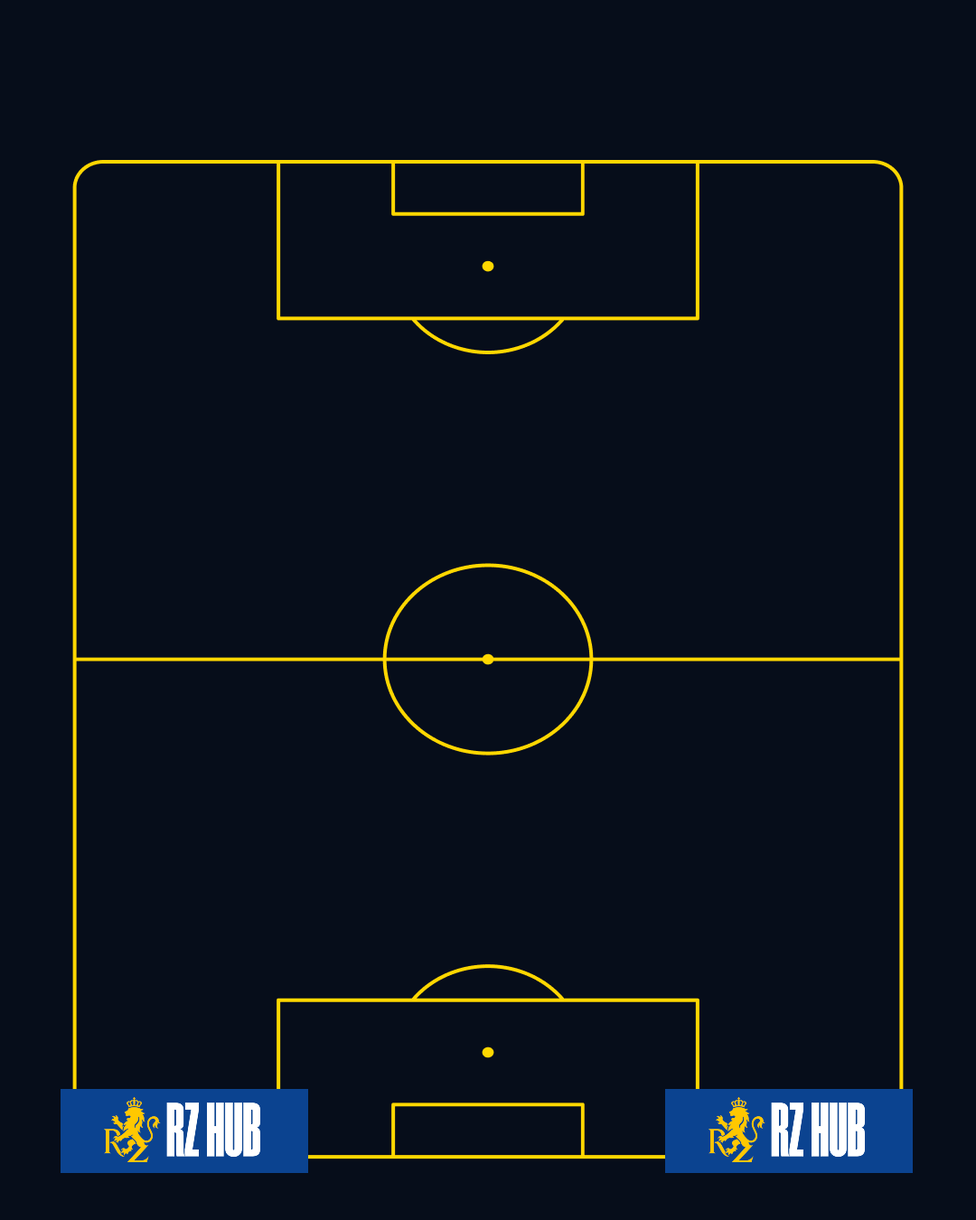
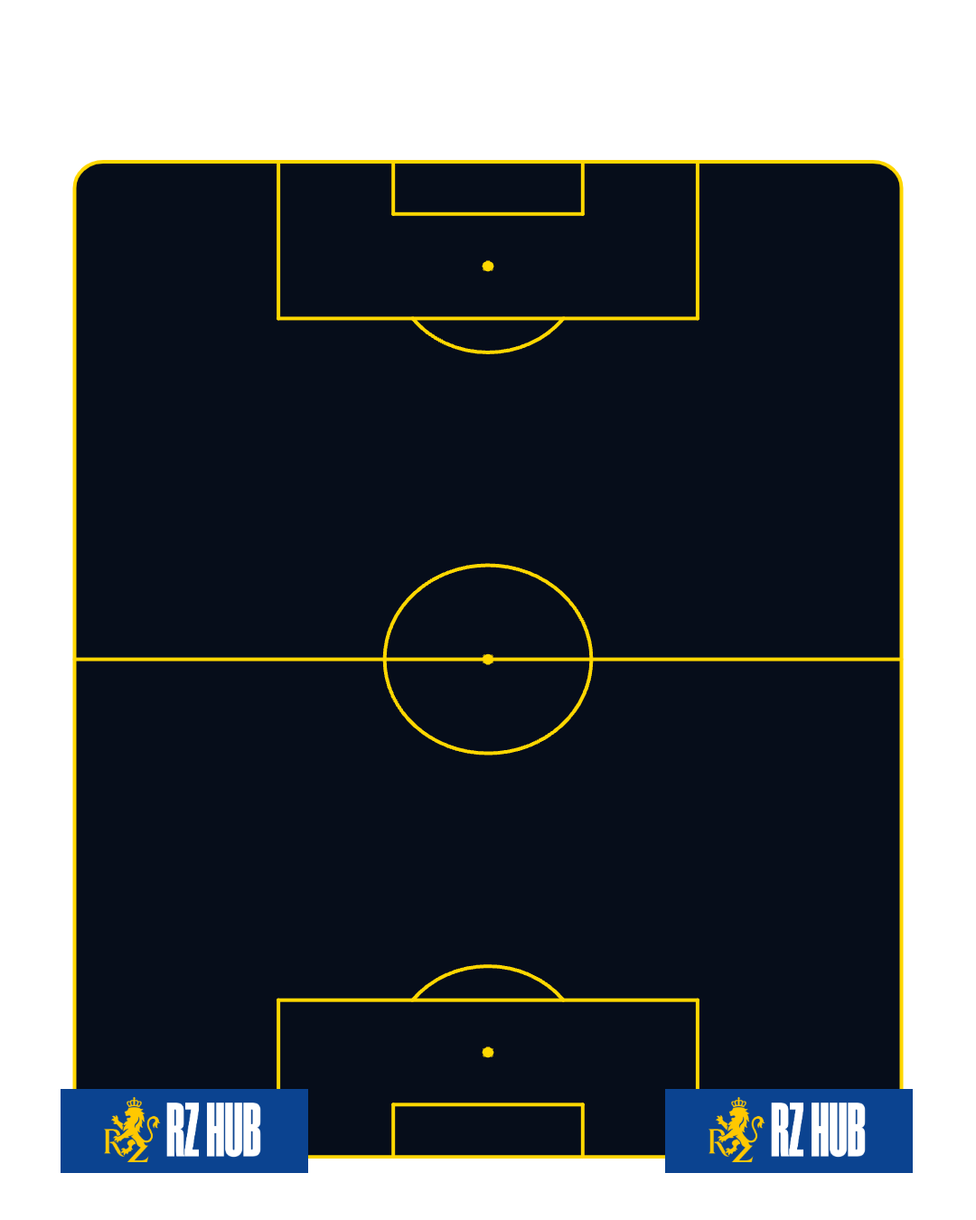
reskin lineup v1

diff --git a/src/components/SidePanel.jsx b/src/components/SidePanel.jsx
@@ -5,8 +5,10 @@ import { formationsList } from '../pages/Lineup'
 const DEFAULT_PHOTO = 'https://assets.laliga.com/squad/2025/t190/default/512x512/default_t190_2025_1_003_000.png'
 
 const card = { background: '#0F1E38', border: '1px solid rgba(255,255,255,0.07)', borderRadius: '14px' }
+// Mismo look que .tool-card de la landing (ToolsSection.css)
+const toolCard = { background: 'linear-gradient(180deg, #0f214f 0%, #0c1c46 100%)', border: '1px solid rgba(255,255,255,0.08)', borderRadius: '20px' }
 const inputStyle = { width: '100%', padding: '10px 12px', borderRadius: '10px', border: '1px solid rgba(255,255,255,0.1)', background: '#0A1628', color: '#ffffff', fontSize: '14px', fontFamily: 'Archivo, sans-serif', boxSizing: 'border-box', outline: 'none' }
-const labelStyle = { fontSize: '11px', color: 'rgba(255,255,255,0.35)', fontFamily: 'Archivo, sans-serif', fontWeight: '700', textTransform: 'uppercase', letterSpacing: '1px', display: 'block', marginBottom: '8px' }
+const labelStyle = { fontSize: '11px', color: '#ffffff', fontFamily: 'Archivo, sans-serif', fontWeight: '700', textTransform: 'uppercase', letterSpacing: '1px', display: 'block', marginBottom: '8px' }
 
 export default function SidePanel({ formation, setFormation, teamName, setTeamName, slots, setSlots, setSubs, players, fichajes, setFichajes, ventas, setVentas }) {
   const [activeTab, setActiveTab] = useState('ajustes')
@@ -73,18 +75,21 @@ export default function SidePanel({ formation, setFormation, teamName, setTeamNa
   return (
     <div style={{ flex: 1, minWidth: '280px', width: '100%' }}>
 
-      {/* Tabs */}
-      <div style={{ display: 'flex', borderBottom: '1px solid rgba(255,255,255,0.07)', marginBottom: '20px' }}>
-        {['ajustes', 'mercado', 'salarios'].map(tab => (
+      {/* Tabs — mismo estilo píldora que .market-filters de Mercado */}
+      <div style={{ display: 'flex', gap: '6px', background: 'rgba(4,20,50,0.72)', border: '1px solid rgba(255,255,255,0.08)', borderRadius: '999px', padding: '6px', marginBottom: '20px' }}>
+        {['ajustes', 'mercado'].map(tab => (
           <button key={tab} onClick={() => setActiveTab(tab)} style={{
-            flex: 1, padding: '12px 8px', border: 'none', background: 'transparent',
-            color: activeTab === tab ? '#FFC800' : 'rgba(255,255,255,0.35)',
-            fontWeight: activeTab === tab ? '700' : '400',
-            fontSize: '12px', cursor: 'pointer',
-            borderBottom: activeTab === tab ? '2px solid #FFC800' : '2px solid transparent',
+            flex: 1, minHeight: '44px', padding: '0 12px', border: 'none', borderRadius: '999px',
+            background: activeTab === tab ? 'linear-gradient(90deg, #ffc800, #ffd740)' : 'transparent',
+            color: activeTab === tab ? '#111111' : 'rgba(255,255,255,0.7)',
+            fontWeight: '600', fontSize: '13px', cursor: 'pointer',
+            boxShadow: activeTab === tab ? '0 8px 22px rgba(255,200,0,0.28)' : 'none',
             fontFamily: 'Archivo, sans-serif', textTransform: 'uppercase', letterSpacing: '1px',
-            transition: 'all 0.15s',
-          }}>
+            transition: 'background 200ms ease, color 200ms ease, box-shadow 200ms ease',
+          }}
+            onMouseEnter={e => { if (activeTab !== tab) e.currentTarget.style.color = '#ffffff' }}
+            onMouseLeave={e => { if (activeTab !== tab) e.currentTarget.style.color = 'rgba(255,255,255,0.7)' }}
+          >
             {tab}
           </button>
         ))}
@@ -93,29 +98,29 @@ export default function SidePanel({ formation, setFormation, teamName, setTeamNa
       {/* AJUSTES */}
       {activeTab === 'ajustes' && (
         <div style={{ display: 'flex', flexDirection: 'column', gap: '12px' }}>
-          <div style={{ ...card, padding: '16px' }}>
+          <div style={{ ...toolCard, padding: '16px' }}>
             <label style={labelStyle}>Nombre del equipo</label>
             <input value={teamName} onChange={e => setTeamName(e.target.value)} style={inputStyle} />
           </div>
-          <div style={{ ...card, padding: '16px' }}>
+          <div style={{ ...toolCard, padding: '16px' }}>
             <label style={labelStyle}>Formación</label>
             <select value={formation} onChange={e => setFormation(e.target.value)} style={{ ...inputStyle, cursor: 'pointer' }}>
               {formationsList.map(f => <option key={f} value={f} style={{ background: '#0A1628' }}>{f}</option>)}
             </select>
           </div>
           <button onClick={() => { setSlots({}); setSubs({}) }}
-            style={{ width: '100%', padding: '10px', borderRadius: '10px', border: '1px solid rgba(255,255,255,0.07)', background: 'transparent', color: 'rgba(255,255,255,0.35)', fontSize: '13px', cursor: 'pointer', fontFamily: 'Archivo, sans-serif', transition: 'all 0.15s' }}
-            onMouseEnter={e => { e.currentTarget.style.borderColor = 'rgba(255,255,255,0.15)'; e.currentTarget.style.color = 'rgba(255,255,255,0.6)' }}
-            onMouseLeave={e => { e.currentTarget.style.borderColor = 'rgba(255,255,255,0.07)'; e.currentTarget.style.color = 'rgba(255,255,255,0.35)' }}
+            style={{ width: '100%', padding: '9px 18px', borderRadius: '8px', border: '1px solid rgba(239,68,68,0.4)', background: 'rgba(239,68,68,0.08)', color: '#ef4444', fontWeight: '700', fontSize: '13px', cursor: 'pointer', fontFamily: 'Archivo, sans-serif', transition: 'all 0.15s' }}
+            onMouseEnter={e => { e.currentTarget.style.background = 'rgba(239,68,68,0.15)' }}
+            onMouseLeave={e => { e.currentTarget.style.background = 'rgba(239,68,68,0.08)' }}
           >
             🗑 Limpiar campo
           </button>
 
           {/* Panel peticiones */}
-          <div style={{ ...card, padding: '16px', marginTop: '4px' }}>
+          <div style={{ ...toolCard, padding: '16px', marginTop: '4px' }}>
             <div style={{ display: 'flex', alignItems: 'center', gap: '8px', marginBottom: '12px' }}>
               <span style={{ fontSize: '14px' }}>✉</span>
-              <span style={{ fontFamily: 'Archivo, sans-serif', fontWeight: '600', fontSize: '12px', color: 'rgba(255,255,255,0.6)', textTransform: 'uppercase', letterSpacing: '1px' }}>Solicita jugadores que faltan</span>
+              <span style={{ fontFamily: 'Archivo, sans-serif', fontWeight: '600', fontSize: '12px', color: '#ffffff', textTransform: 'uppercase', letterSpacing: '1px' }}>Solicita jugadores que faltan</span>
             </div>
             <textarea
               value={peticion}
@@ -145,13 +150,13 @@ export default function SidePanel({ formation, setFormation, teamName, setTeamNa
         <div style={{ display: 'flex', flexDirection: 'column', gap: '12px' }}>
           <div style={{ display: 'grid', gridTemplateColumns: '1fr 1fr 1fr', gap: '1px', background: 'rgba(255,255,255,0.07)', borderRadius: '14px', overflow: 'hidden' }}>
             {[
-              { label: 'BALANCE', value: balance, color: balance >= 0 ? '#22C55E' : '#EF4444' },
-              { label: 'SALIDAS', value: totalVentas, color: '#22C55E' },
+              { label: 'BALANCE', value: balance, color: balance >= 0 ? '#27ae60' : '#EF4444' },
+              { label: 'SALIDAS', value: totalVentas, color: '#27ae60' },
               { label: 'FICHAJES', value: totalFichajes, color: '#EF4444' },
             ].map(stat => (
               <div key={stat.label} style={{ background: '#0F1E38', padding: '14px 8px', textAlign: 'center' }}>
-                <div style={{ fontSize: '22px', fontWeight: '900', color: stat.color, fontFamily: 'Humane, sans-serif', lineHeight: 1 }}>
-                  {balance < 0 && stat.label === 'BALANCE' ? '-' : ''}{Math.abs(stat.value)}<span style={{ fontSize: '13px' }}>M€</span>
+                <div style={{ fontSize: '20px', fontWeight: '800', color: stat.color, fontFamily: 'Archivo, sans-serif', lineHeight: 1 }}>
+                  {balance < 0 && stat.label === 'BALANCE' ? '-' : ''}{Math.abs(stat.value)}<span style={{ fontSize: '12px', fontWeight: '700' }}>M€</span>
                 </div>
                 <div style={{ fontSize: '10px', fontWeight: '700', color: 'rgba(255,255,255,0.35)', fontFamily: 'Archivo, sans-serif', marginTop: '4px', letterSpacing: '1px' }}>{stat.label}</div>
               </div>
@@ -160,8 +165,8 @@ export default function SidePanel({ formation, setFormation, teamName, setTeamNa
 
           {/* Ventas */}
           <div style={{ ...card, overflow: 'hidden' }}>
-            <div style={{ background: '#22C55E', padding: '10px 14px', display: 'flex', alignItems: 'center', justifyContent: 'space-between' }}>
-              <span style={{ color: 'white', fontFamily: 'Humane, sans-serif', fontSize: '18px', letterSpacing: '1px' }}>VENTAS</span>
+            <div style={{ background: '#27ae60', padding: '10px 14px', display: 'flex', alignItems: 'center', justifyContent: 'space-between' }}>
+              <span style={{ color: 'white', fontFamily: 'Archivo, sans-serif', fontWeight: '700', fontSize: '14px', letterSpacing: '0.5px' }}>VENTAS</span>
               <button onClick={() => { setShowModalVenta(true); setSearch('') }} style={{ background: 'rgba(255,255,255,0.2)', border: 'none', color: 'white', borderRadius: '50%', width: '24px', height: '24px', cursor: 'pointer', fontSize: '16px', display: 'flex', alignItems: 'center', justifyContent: 'center' }}>+</button>
             </div>
             <div style={{ padding: '6px', minHeight: '50px' }}>
@@ -175,7 +180,7 @@ export default function SidePanel({ formation, setFormation, teamName, setTeamNa
                   {editingValor === p.id ? (
                     <input autoFocus type="number" defaultValue={p.valor} onBlur={e => { setVentas(prev => prev.map(v => v.id === p.id ? { ...v, valor: parseFloat(e.target.value) || 0 } : v)); setEditingValor(null) }} style={{ width: '60px', padding: '3px', border: '1px solid rgba(255,255,255,0.15)', borderRadius: '4px', fontSize: '12px', background: '#0A1628', color: '#fff', outline: 'none' }} />
                   ) : (
-                    <span onClick={() => setEditingValor(p.id)} style={{ fontFamily: 'Archivo, sans-serif', fontWeight: '700', fontSize: '12px', color: '#22C55E', cursor: 'pointer' }}>+{p.valor}M€</span>
+                    <span onClick={() => setEditingValor(p.id)} style={{ fontFamily: 'Archivo, sans-serif', fontWeight: '700', fontSize: '12px', color: '#27ae60', cursor: 'pointer' }}>+{p.valor}M€</span>
                   )}
                   <button onClick={() => setVentas(prev => prev.filter(v => v.id !== p.id))} style={{ background: 'none', border: 'none', cursor: 'pointer', color: 'rgba(255,255,255,0.25)', fontSize: '14px' }}>✕</button>
                 </div>
@@ -186,7 +191,7 @@ export default function SidePanel({ formation, setFormation, teamName, setTeamNa
           {/* Fichajes */}
           <div style={{ ...card, overflow: 'hidden' }}>
             <div style={{ background: '#0D4491', padding: '10px 14px', display: 'flex', alignItems: 'center', justifyContent: 'space-between' }}>
-              <span style={{ color: 'white', fontFamily: 'Humane, sans-serif', fontSize: '18px', letterSpacing: '1px' }}>FICHAJES</span>
+              <span style={{ color: 'white', fontFamily: 'Archivo, sans-serif', fontWeight: '700', fontSize: '14px', letterSpacing: '0.5px' }}>FICHAJES</span>
               <button onClick={() => { setShowModalFichaje(true); setSearch('') }} style={{ background: 'rgba(255,255,255,0.2)', border: 'none', color: 'white', borderRadius: '50%', width: '24px', height: '24px', cursor: 'pointer', fontSize: '16px', display: 'flex', alignItems: 'center', justifyContent: 'center' }}>+</button>
             </div>
             <div style={{ padding: '6px', minHeight: '50px' }}>
@@ -210,19 +215,11 @@ export default function SidePanel({ formation, setFormation, teamName, setTeamNa
         </div>
       )}
 
-      {/* SALARIOS */}
-      {activeTab === 'salarios' && (
-        <div style={{ ...card, padding: '40px 24px', textAlign: 'center' }}>
-          <p style={{ fontSize: '36px', margin: 0 }}>💶</p>
-          <p style={{ fontFamily: 'Archivo, sans-serif', fontSize: '14px', marginTop: '12px', color: 'rgba(255,255,255,0.3)' }}>Sección de salarios — próximamente</p>
-        </div>
-      )}
-
       {/* Modal Venta */}
       {showModalVenta && (
         <div onClick={() => { setShowModalVenta(false); setSelectedPlayer(null) }} style={{ position: 'fixed', top: 0, left: 0, right: 0, bottom: 0, background: 'rgba(0,0,0,0.8)', zIndex: 1000, display: 'flex', alignItems: 'center', justifyContent: 'center' }}>
           <div onClick={e => e.stopPropagation()} style={{ background: '#0A1628', border: '1px solid rgba(255,255,255,0.1)', borderRadius: '14px', width: '90%', maxWidth: '400px', maxHeight: '580px', display: 'flex', flexDirection: 'column', overflow: 'hidden', boxShadow: '0 20px 60px rgba(0,0,0,0.7)' }}>
-            <div style={{ background: '#22C55E', padding: '16px 20px', display: 'flex', alignItems: 'center', justifyContent: 'space-between' }}>
+            <div style={{ background: '#27ae60', padding: '16px 20px', display: 'flex', alignItems: 'center', justifyContent: 'space-between' }}>
               <span style={{ color: 'white', fontWeight: '700', fontSize: '16px', fontFamily: 'Archivo, sans-serif' }}>Añadir venta</span>
               <button onClick={() => { setShowModalVenta(false); setSelectedPlayer(null) }} style={{ background: 'none', border: 'none', color: 'white', fontSize: '20px', cursor: 'pointer' }}>✕</button>
             </div>
@@ -236,13 +233,13 @@ export default function SidePanel({ formation, setFormation, teamName, setTeamNa
                 </div>
                 <span style={{ flex: 1, fontFamily: 'Archivo, sans-serif', fontWeight: '600', color: '#fff' }}>{selectedPlayer.name}</span>
                 <input type="number" placeholder="M€" value={valor} onChange={e => setValor(e.target.value)} style={{ width: '80px', padding: '8px', borderRadius: '6px', border: '1px solid rgba(255,255,255,0.1)', fontSize: '14px', fontFamily: 'Archivo, sans-serif', background: '#152445', color: '#fff', outline: 'none' }} />
-                <button onClick={addVenta} style={{ background: '#22C55E', color: 'white', border: 'none', borderRadius: '6px', padding: '8px 14px', cursor: 'pointer', fontFamily: 'Archivo, sans-serif', fontWeight: '700' }}>Añadir</button>
+                <button onClick={addVenta} style={{ background: '#27ae60', color: 'white', border: 'none', borderRadius: '6px', padding: '8px 14px', cursor: 'pointer', fontFamily: 'Archivo, sans-serif', fontWeight: '700' }}>Añadir</button>
               </div>
             )}
             <div style={{ overflowY: 'auto', flex: 1, padding: '8px' }}>
               {search.length < 2 && <div style={{ textAlign: 'center', padding: '30px', color: 'rgba(255,255,255,0.25)', fontFamily: 'Archivo, sans-serif', fontSize: '13px' }}>🔍 Busca un jugador del Zaragoza</div>}
               {filteredVenta.map(p => (
-                <div key={p.id} onClick={() => setSelectedPlayer(p)} style={{ display: 'flex', alignItems: 'center', gap: '12px', padding: '10px 12px', borderRadius: '8px', cursor: 'pointer', background: selectedPlayer?.id === p.id ? 'rgba(34,197,94,0.12)' : 'transparent' }}
+                <div key={p.id} onClick={() => setSelectedPlayer(p)} style={{ display: 'flex', alignItems: 'center', gap: '12px', padding: '10px 12px', borderRadius: '8px', cursor: 'pointer', background: selectedPlayer?.id === p.id ? 'rgba(39,174,96,0.12)' : 'transparent' }}
                   onMouseEnter={e => { if (selectedPlayer?.id !== p.id) e.currentTarget.style.background = 'rgba(255,255,255,0.04)' }}
                   onMouseLeave={e => { if (selectedPlayer?.id !== p.id) e.currentTarget.style.background = 'transparent' }}
                 >

diff --git a/src/components/Field.jsx b/src/components/Field.jsx
@@ -13,6 +13,17 @@ function scaleByFieldWidth(fieldWidth, min, max, refMin = 320, refMax = 620) {
   return min + (max - min) * t
 }
 
+// Para que el input de edición del nombre ocupe solo lo que el texto
+// realmente pesa (y así la formación pueda seguir en la misma fila
+// mientras quepa, en vez de bajar siempre por tener un input a 100%).
+let measureCanvas
+function measureTextWidth(text, font) {
+  if (!measureCanvas) measureCanvas = document.createElement('canvas')
+  const ctx = measureCanvas.getContext('2d')
+  ctx.font = font
+  return ctx.measureText(text).width
+}
+
 export default function Field({ slotsLayout, slots, subs, teamName, setTeamName, formation, allPlayers, onSelectPlayer, onRemovePlayer, onSelectSub, onRemoveSub, onAddCustomPlayer, onGuardar, user }) {
   const fieldRef = useRef(null)
   const [editingName, setEditingName] = useState(false)
@@ -157,29 +168,27 @@ export default function Field({ slotsLayout, slots, subs, teamName, setTeamName,
   return (
     <div style={{ display: 'flex', flexDirection: 'column', width: '100%', maxWidth: '620px', flexShrink: 0 }}>
 
-      {/* Botones encima del campo */}
-      <div style={{ display: 'flex', flexWrap: 'wrap', justifyContent: 'flex-start', marginBottom: '12px', gap: '8px' }}>
+      {/* Botones encima del campo — los tres reparten el mismo ancho */}
+      <div style={{ display: 'flex', flexWrap: 'wrap', marginBottom: '12px', gap: '8px' }}>
         {guardado ? (
-          <div style={{ display: 'flex', alignItems: 'center', padding: '9px 18px', borderRadius: '8px', background: 'rgba(39,174,96,0.15)', color: '#27ae60', fontWeight: '700', fontSize: '13px', fontFamily: 'Archivo, sans-serif', border: '1px solid rgba(39,174,96,0.3)' }}>
+          <div style={{ flex: 1, minWidth: '0', display: 'flex', alignItems: 'center', justifyContent: 'center', padding: '9px 12px', borderRadius: '8px', background: 'rgba(39,174,96,0.15)', color: '#27ae60', fontWeight: '700', fontSize: '13px', fontFamily: 'Archivo, sans-serif', border: '1px solid rgba(39,174,96,0.3)', textAlign: 'center' }}>
             ✅ ¡Guardado en la comunidad!
           </div>
         ) : (
-          <button onClick={abrirModal} style={{ display: 'flex', alignItems: 'center', gap: '8px', padding: '9px 18px', borderRadius: '8px', border: '1px solid rgba(255,200,0,0.4)', background: 'rgba(255,200,0,0.08)', color: '#ffc800', fontWeight: '700', fontSize: '13px', fontFamily: 'Archivo, sans-serif', cursor: 'pointer', transition: 'all 0.15s' }}
+          <button onClick={abrirModal} style={{ flex: 1, minWidth: '0', display: 'flex', alignItems: 'center', justifyContent: 'center', gap: '8px', padding: '9px 12px', borderRadius: '8px', border: '1px solid rgba(255,200,0,0.4)', background: 'rgba(255,200,0,0.08)', color: '#ffc800', fontWeight: '700', fontSize: '13px', fontFamily: 'Archivo, sans-serif', cursor: 'pointer', transition: 'all 0.15s' }}
             onMouseEnter={e => e.currentTarget.style.background = 'rgba(255,200,0,0.15)'}
             onMouseLeave={e => e.currentTarget.style.background = 'rgba(255,200,0,0.08)'}
           >
-            💾 Guardar en comunidad
+            Guardar en comunidad
           </button>
         )}
-        {window.innerWidth > 640 && (
-          <button onClick={handleDownload} style={{ display: 'flex', alignItems: 'center', gap: '8px', padding: '9px 18px', borderRadius: '8px', border: '1px solid rgba(255,255,255,0.15)', background: 'rgba(255,255,255,0.05)', color: 'rgba(255,255,255,0.7)', fontWeight: '700', fontSize: '13px', fontFamily: 'Archivo, sans-serif', cursor: 'pointer', transition: 'all 0.15s' }}
-            onMouseEnter={e => e.currentTarget.style.background = 'rgba(255,255,255,0.1)'}
-            onMouseLeave={e => e.currentTarget.style.background = 'rgba(255,255,255,0.05)'}
-          >
-            ⬇ Descargar
-          </button>
-        )}
-        <button onClick={handleCompartirX} style={{ display: 'flex', alignItems: 'center', gap: '8px', padding: '9px 18px', borderRadius: '8px', border: '1px solid rgba(29,155,240,0.4)', background: 'rgba(29,155,240,0.08)', color: '#1da1f2', fontWeight: '700', fontSize: '13px', fontFamily: 'Archivo, sans-serif', cursor: 'pointer', transition: 'all 0.15s' }}
+        <button onClick={handleDownload} style={{ flex: 1, minWidth: '0', display: 'flex', alignItems: 'center', justifyContent: 'center', gap: '8px', padding: '9px 12px', borderRadius: '8px', border: '1px solid rgba(255,255,255,0.15)', background: 'rgba(255,255,255,0.05)', color: 'rgba(255,255,255,0.7)', fontWeight: '700', fontSize: '13px', fontFamily: 'Archivo, sans-serif', cursor: 'pointer', transition: 'all 0.15s' }}
+          onMouseEnter={e => e.currentTarget.style.background = 'rgba(255,255,255,0.1)'}
+          onMouseLeave={e => e.currentTarget.style.background = 'rgba(255,255,255,0.05)'}
+        >
+          ⬇ Descargar
+        </button>
+        <button onClick={handleCompartirX} style={{ flex: 1, minWidth: '0', display: 'flex', alignItems: 'center', justifyContent: 'center', gap: '8px', padding: '9px 12px', borderRadius: '8px', border: '1px solid rgba(29,155,240,0.4)', background: 'rgba(29,155,240,0.08)', color: '#1da1f2', fontWeight: '700', fontSize: '13px', fontFamily: 'Archivo, sans-serif', cursor: 'pointer', transition: 'all 0.15s' }}
           onMouseEnter={e => e.currentTarget.style.background = 'rgba(29,155,240,0.15)'}
           onMouseLeave={e => e.currentTarget.style.background = 'rgba(29,155,240,0.08)'}
         >
@@ -192,19 +201,28 @@ export default function Field({ slotsLayout, slots, subs, teamName, setTeamName,
         <img src="/CAMPO_PARA_WEB.svg" alt="campo" crossOrigin="anonymous"
           style={{ position: 'absolute', top: 0, left: 0, width: '100%', height: '100%', objectFit: 'fill' }} />
 
-        {/* Título — padding generoso para no solapar cards */}
-        <div style={{ position: 'absolute', top: 0, left: 0, right: 0, padding: '8px 16px 0px 16px', zIndex: 10 }}>
+        {/* Título — padding generoso para no solapar cards. Nombre y
+            formación van en la misma fila (flex-wrap): si el nombre del
+            equipo no deja hueco para la formación, esta baja sola a una
+            segunda línea de forma automática. */}
+        <div style={{ position: 'absolute', top: 0, left: 0, right: 0, padding: '8px 16px 0px 16px', zIndex: 10, display: 'flex', flexWrap: 'wrap', alignItems: 'center', gap: '10px' }}>
           {editingName ? (
             <input autoFocus value={teamName} onChange={e => setTeamName(e.target.value)}
               onBlur={() => setEditingName(false)} onKeyDown={e => e.key === 'Enter' && setEditingName(false)}
-              style={{ fontFamily: 'Humane, sans-serif', fontWeight: '700', fontSize: `${titleFontSize}px`, textTransform: 'uppercase', color: '#ffffff', border: 'none', borderBottom: '2px solid #ffffff', outline: 'none', background: 'transparent', width: '100%', letterSpacing: '0px', lineHeight: '0.9' }} />
+              style={{
+                fontFamily: 'Humane, sans-serif', fontWeight: '700', fontSize: `${titleFontSize}px`, textTransform: 'uppercase', color: '#ffffff', border: 'none', borderBottom: '2px solid #ffffff', outline: 'none', background: 'transparent', letterSpacing: '0px', lineHeight: '0.9',
+                // Ancho pegado al texto real (no 100%) para que la
+                // formación solo baje de línea cuando de verdad no cabe.
+                width: `${Math.max(60, Math.ceil(measureTextWidth((teamName || '').toUpperCase(), `700 ${titleFontSize}px Humane, sans-serif`)) + 16)}px`,
+                maxWidth: '100%',
+              }} />
           ) : (
             <h2 onClick={() => setEditingName(true)} title="Clic para editar"
               style={{ color: '#ffffff', fontFamily: 'Humane, sans-serif', fontWeight: '700', fontSize: `${titleFontSize}px`, textTransform: 'uppercase', margin: 0, letterSpacing: '0px', cursor: 'text', userSelect: 'none', lineHeight: '0.9' }}>
               {teamName}
             </h2>
           )}
-          <div style={{ display: 'inline-block', background: '#FFC800', color: '#060D1A', fontSize: '10px', fontWeight: '800', padding: '2px 8px', borderRadius: '4px', marginTop: '10px', fontFamily: 'Archivo, sans-serif' }}>
+          <div style={{ display: 'inline-block', background: '#FFC800', color: '#060D1A', fontSize: '10px', fontWeight: '800', padding: '2px 8px', borderRadius: '4px', fontFamily: 'Archivo, sans-serif', flexShrink: 0 }}>
             {formation}
           </div>
         </div>

diff --git a/src/pages/Lineup.jsx b/src/pages/Lineup.jsx
@@ -3,6 +3,7 @@ import SEO, { SITE_URL } from '../components/SEO'
 import { DndContext, closestCenter } from '@dnd-kit/core'
 import Field from '../components/Field'
 import SidePanel from '../components/SidePanel'
+import Footer from '../components/Footer'
 import usePlayers from '../hooks/usePlayers'
 import useAuth from '../hooks/useAuth'
 import { supabase } from '../hooks/useAuth'
@@ -183,7 +184,14 @@ export default function Lineup() {
   )
 
   return (
-    <div style={{ minHeight: 'calc(100vh - 72px)', background: '#060D1A', fontFamily: 'Archivo, sans-serif' }}>
+    <div style={{ position: 'relative', isolation: 'isolate', minHeight: 'calc(100vh - 72px)', background: '#060D1A', fontFamily: 'Archivo, sans-serif' }}>
+      {/* Misma imagen panorámica de estadio/afición que usa .editorial-section */}
+      <div style={{
+        position: 'absolute', inset: 0, zIndex: 0,
+        background: `linear-gradient(180deg, rgba(4, 18, 46, 0.94) 0%, rgba(7, 35, 88, 0.90) 35%, rgba(10, 68, 145, 0.82) 65%, rgba(4, 18, 46, 0.95) 100%), url('/images/estadio-comunidad.webp') center center / cover no-repeat`,
+        filter: 'saturate(0.82) contrast(0.94)',
+      }} />
+      <div style={{ position: 'relative', zIndex: 1 }}>
       <SEO
         title="Alineación del Real Zaragoza | Crea tu XI | RZ Hub"
         description="Crea tu alineación ideal del Real Zaragoza. Elige formación, coloca a los jugadores de la plantilla y comparte tu XI con otros zaragocistas."
@@ -214,7 +222,7 @@ export default function Lineup() {
         </p>
       </div>
 
-      <div style={{ display: 'flex', flexWrap: 'wrap', maxWidth: '1200px', margin: '0 auto', padding: '24px clamp(16px,4vw,40px)', gap: '24px' }}>
+      <div style={{ display: 'flex', flexWrap: 'wrap', maxWidth: '1200px', margin: '0 auto', padding: '24px clamp(16px,4vw,40px) 64px', gap: '24px' }}>
         <DndContext collisionDetection={closestCenter}>
           <Field
             slotsLayout={slotsLayout}
@@ -251,6 +259,8 @@ export default function Lineup() {
             setVentas={setVentas}
           />
         </DndContext>
+      </div>
+      <Footer />
       </div>
     </div>
   )

diff --git a/src/lib/lineupCanvas.js b/src/lib/lineupCanvas.js
@@ -201,23 +201,45 @@ export async function drawLineupCanvas({ slotsLayout, slots, subs, teamName, for
   ])
   await document.fonts.ready
 
+  // El PNG del campo es transparente fuera del rectángulo de juego (para
+  // que en pantalla se vea el fondo panorámico de la página). En la
+  // imagen exportada no hay esa página detrás, así que rellenamos antes
+  // con el mismo color de fondo oscuro de la web para que no quede
+  // transparente/a cuadros.
+  ctx.fillStyle = '#060D1A'
+  ctx.fillRect(0, 0, W, H)
   const bg = await loadImage('/CAMPO_PARA_WEB.png')
   if (bg) ctx.drawImage(bg, 0, 0, W, H)
-  else { ctx.fillStyle = '#0a1628'; ctx.fillRect(0, 0, W, H) }
+
+  // Nombre y formación van en la misma fila si caben; si el nombre del
+  // equipo no deja hueco, la formación baja a una segunda línea (mismo
+  // comportamiento que el flex-wrap del overlay en pantalla).
+  const nameText = (teamName || '').toUpperCase()
+  ctx.font = '700 40px Humane, sans-serif'
+  const nameW = ctx.measureText(nameText).width
+
+  ctx.font = '800 10px Archivo, sans-serif'
+  const badgeW = ctx.measureText(formation).width + 16
+  const badgeH = 18
+  const gap = 12
+  const margin = 16
+  const sameLine = margin + nameW + gap + badgeW <= W - margin
 
   ctx.fillStyle = '#ffffff'
   ctx.font = '700 40px Humane, sans-serif'
   ctx.textBaseline = 'top'
-  ctx.fillText((teamName || '').toUpperCase(), 16, 8)
+  ctx.fillText(nameText, margin, 8)
+
+  const badgeX = sameLine ? margin + nameW + gap : margin
+  const badgeY = sameLine ? 15 : 52
 
   ctx.font = '800 10px Archivo, sans-serif'
-  const badgeW = ctx.measureText(formation).width + 16
   ctx.fillStyle = '#FFC800'
-  roundRect(ctx, 16, 52, badgeW, 18, 4)
+  roundRect(ctx, badgeX, badgeY, badgeW, badgeH, 4)
   ctx.fill()
   ctx.fillStyle = '#060D1A'
   ctx.textBaseline = 'middle'
-  ctx.fillText(formation, 24, 61.5)
+  ctx.fillText(formation, badgeX + 8, badgeY + badgeH / 2 + 0.5)
 
   for (const slot of slotsLayout) {
     await drawSlot(ctx, slot, slots[slot.id] || null, subs[slot.id]?.[0] || null, subs[slot.id]?.[1] || null)

diff --git a/src/components/PlayerSlot.jsx b/src/components/PlayerSlot.jsx
@@ -209,7 +209,10 @@ export default function PlayerSlot({ slot, player, sub1, sub2, allPlayers, onSel
         display: 'flex', flexDirection: 'column', alignItems: 'center', zIndex: 2,
       }}>
         {player ? (
-          <div data-card-container onClick={openModal} style={{
+          <div data-card-container onClick={openModal}
+            onMouseEnter={e => { e.currentTarget.style.transform = 'translateY(-4px) scale(1.05)'; e.currentTarget.style.boxShadow = '0 10px 24px rgba(0,0,0,0.4)' }}
+            onMouseLeave={e => { e.currentTarget.style.transform = 'translateY(0) scale(1)'; e.currentTarget.style.boxShadow = '0 2px 8px rgba(0,0,0,0.25)' }}
+            style={{
             width: cardW,
             borderRadius: '6px',
             border: `2px solid ${borderColor}`,
@@ -221,6 +224,7 @@ export default function PlayerSlot({ slot, player, sub1, sub2, allPlayers, onSel
             display: 'flex',
             flexDirection: 'column',
             background: cardBg,
+            transition: 'transform 150ms ease, box-shadow 150ms ease',
           }}>
             {/* Foto */}
             <div data-card-photo style={{
@@ -284,7 +288,10 @@ export default function PlayerSlot({ slot, player, sub1, sub2, allPlayers, onSel
             ))}
           </div>
         ) : (
-          <div onClick={openModal} style={{ display: 'flex', flexDirection: 'column', alignItems: 'center', gap: '4px', cursor: 'pointer' }}>
+          <div onClick={openModal}
+            onMouseEnter={e => { e.currentTarget.style.transform = 'scale(1.12)' }}
+            onMouseLeave={e => { e.currentTarget.style.transform = 'scale(1)' }}
+            style={{ display: 'flex', flexDirection: 'column', alignItems: 'center', gap: '4px', cursor: 'pointer', transition: 'transform 150ms ease' }}>
             <div style={{
               width: plusSize, height: plusSize, borderRadius: '50%',
               background: isOver ? '#1A5BB8' : 'rgba(10,22,40,0.75)',
